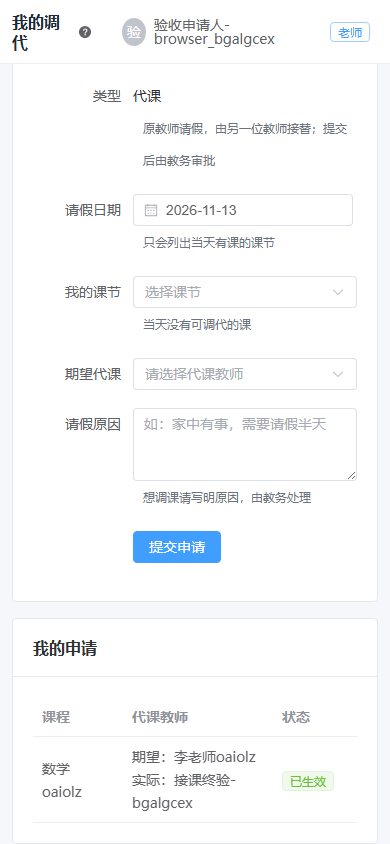
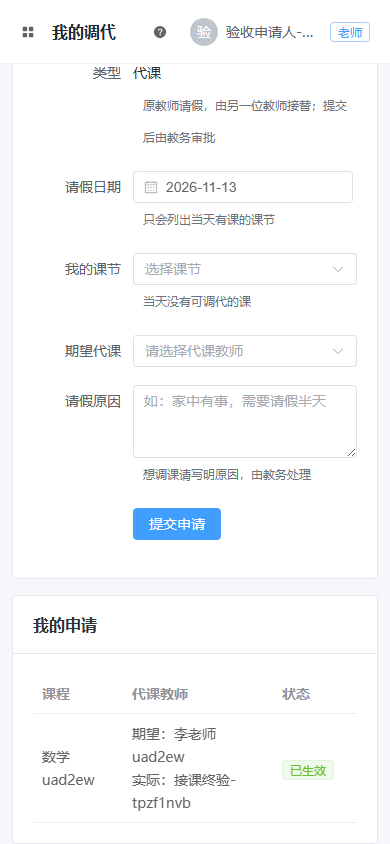
docs(dingtalk): close final review and mobile acceptance before full gate

diff --git a/.scratch/dingtalk-multiuser/whole-standards-mobile-delta-raw.md b/.scratch/dingtalk-multiuser/whole-standards-mobile-delta-raw.md
@@ -1,0 +1,10 @@
+# Standards 手机导航 delta 复核（d7ee6ff…52cbf13，独立只读）
+
+- 源 `E:/排课系统/.worktrees/dingtalk-mobile-nav-review-snapshot`，HEAD `52cbf131382f769a25dc5e7b781ad4f8abcbebce`，tracked clean，未移动 d7/be48；未跑测试/构建/网络，未 stage/commit。delta 16 文件，源码仅 6：`MainLayout.vue`、新 `MainNavigationMenu.vue`、`navigation.ts`、`navigation.spec.ts`、新 `dingtalk-mobile-navigation.spec.ts`、`dingtalk-acceptance.spec.ts`；无后端改动、无迁移。
+- **新 Hard：0**（P1/P2/P3 全 0）。新 spec 复用 `trackBrowserErrors/installFakeWindowDd/apiCall/capture`，无新增内联 collector、无自写登录/下拉，未复制公共交互。
+- **新 Judgement：0**。`MainNavigationMenu` 是两处真实 caller（aside:11-16、drawer:64-70）的共享实现，不属 Middle Man；两处传同一 `visibleGroups`+`activeMenu`，差异只在 `menuTestId` 与 tour 锚点，符合单一来源。
+- **M1 产品修复核对无问题**：`MainLayout.vue:335-341` 在 ≤900px 隐藏 `.aside` 并显示 `.nav-toggle`（base `display:none`，`data-testid=mobile-nav-toggle`，aria-label 打开导航）；drawer `destroy-on-close`、`direction=ltr`、`mobile-layout-menu`、`with-tour-anchors=false`，桌面保留 `layout-menu` 与 `data-tour`（tour 选择器仍唯一）；`@select` 与 `watch(route.fullPath)` 双保险收起属刻意冗余，不致重复渲染，不升级。≤520px 对 `.page-title/.user-name` 做 96px 省略，不引入横向滚动。
+- **resolver**：`navigation.ts:111-118` 仅在「有 `substitution:submit` 且非完整 `WORKBENCH_MANAGER_PERMISSIONS`」时把 `/substitution` 指向既有 `/substitution/requests`，未新增路由、未改 defaultLogin/权限；完整管理组合与管理员仍进工作台（`navigation.spec.ts:71` 钉住）。教师保留 `assignment:view:own`，故「数据管理」入口合法，测试只断言其可见，未反向改权限。
+- **e2e 断言只增不减**：原 acceptance 由 `page.goto` 改为真实「打开导航→调代课」并断言 URL 与抽屉收起，后续断言原样；新 nav spec 断言默认落 `/workbench/timetable`、aside 隐藏、toggle 可见、无设置/规则/AI 入口、往返与 `errors` 空，清理仅关停自建账号与配置。
+- **原轴计数不变**：Hard P1 0 / P2 0 / P3 0（H1 关闭）；Judgement P3 **1**，仅 **J4**（主控不采纳、非延期、**未修复**）。本 delta 未改变任何原项。
+- **边界**：browser 12-spec targeted 仍在跑，未 claim green；我不复跑。修复源对象与 1007 源 Git 56ce 一致、以及“除新增 drawer capture/合法数据入口外红 oracle 未削弱”按主控核对记录，未独立重放。full、真实 PG/钉钉租户/手机仍未验证，**不宣称整规格通过**。

diff --git a/.scratch/dingtalk-multiuser/issues/08-end-to-end-acceptance.md b/.scratch/dingtalk-multiuser/issues/08-end-to-end-acceptance.md
@@ -9,10 +9,12 @@
 2026-11-13：07经最终双轴补核放行（b7cac2e），08开始。主控在dingtalk-t08-chain负责后端Fake身份和真实HTTP整链；Galileo在dingtalk-t08-upgrade负责旧库完整迁移演练；Dalton在dingtalk-t08-browser负责手机→电脑→手机E2E。独立写集基于016859b的同一最终审源，交付前合最新集成。完成证据与最后全量门禁尚待产生，不能据任务拆分认作通过。
 
 - [x] 后端整链（假钉钉）：自动开号 → 老师提交 → 教务管理员改人批准 → 申请人与接课老师各一条钉钉通知、其他人无 → 审计与状态历史可查
-- [ ] Playwright：老师（手机视口）免登进入提交代课；教务管理员（电脑视口）在待审批批准；老师在「我的调代」看到「已生效」
+- [x] Playwright：老师（手机视口）免登进入提交代课；教务管理员（电脑视口）在待审批批准；老师在「我的调代」看到「已生效」
 - [x] 升级演练：用旧库跑全部新迁移，`admin` 为超级管理员，业务数据计数不变
 - [ ] `scripts/verify.sh --full` 绿；交付记录写入本票
 
 2026-11-13：三个切片均已合入be48fc0，独立接收单2c09fdb；验收入口[t08-main-acceptance.md](../t08-main-acceptance.md)。浏览器worker未产出后由主控接管实际施工和运行。升级为H2演练，不证明真实PG；手机为浏览器仿真，不证明真实租户送达。当前整特性双轴复查与单一fixer收口中，最后完整门禁未跑，保留in-progress，不push、不部署。
 
 同日后续：主控发现原整链免登后用直接URL跳到申请页，掩盖了手机默认课表没有导航入口的问题，已真实红例复现并重开本项，见[whole-mobile-navigation-qc.md](../whole-mobile-navigation-qc.md)。唯一fixer补导航并把原整链改成点击进入；转绿、增量复核及最后完整门禁前不勾选。
+
+2026-11-13 最终专项：手机真实菜单入口已修复并实跑32项通过，见主控验收最新节；原重开项关闭。整合源7413a01，08仅剩完整verify门禁，状态仍in-progress。

diff --git a/.scratch/dingtalk-multiuser/whole-spec-mobile-delta-raw.md b/.scratch/dingtalk-multiuser/whole-spec-mobile-delta-raw.md
@@ -1,0 +1,9 @@
+# 手机导航 delta：Spec 轴（d7ee6ff…52cbf13）
+
+审源 `52cbf131382f769a25dc5e7b781ad4f8abcbebce`（只读 WT，rev-parse 全 SHA 已核、干净）；diff `d7ee6ff...52cbf13` 6 个源文件（5 UI + 新 nav spec，另 1 acceptance spec 改真实点击）。未跑测试/构建/网络，未改源。
+
+- 结论：新增规格缺失 0、越界 0；行为变更 1（P3）；独立计数 P0 0 / P1 0 / P2 0 / P3 1，最坏项 P3-1。
+- M1 覆盖逐项对上：默认仍落本人课表（`dingtalk-mobile-navigation.spec.ts:46`，`useLoginLanding` 未改）；≤900 aside 隐藏且 toggle 显示（`MainLayout.vue:336-340`）；drawer 复用同一 `visibleGroups/activeMenu`（`MainLayout.vue:55-66`）；桌面保留 `layout-menu`+`data-tour`、手机 `mobile-layout-menu` 不带 tour（`MainNavigationMenu.vue:15、28-31`）；`destroy-on-close` + select 与 `route.fullPath` watch 双关闭（`MainLayout.vue:58、200-205`）。
+- 入口解析：`resolveMenuPath` 仅 `can(substitution:submit)` 且非完整 `WORKBENCH_MANAGER_PERMISSIONS` 时去 `/substitution/requests`（`navigation.ts:111-118`）；完整组合仍 `/substitution`，单测已钉（`navigation.spec.ts:70`）。路由表、权限点、后端与布局层手机专用权限均未新增；老师「数据管理」仍由合法 `assignment:view:own` 可见（`navigation.ts:65-74`、spec 62 行）。
+- P3-1：注释称「遗漏权限的老入口保持原样」，但缺少 `timetable:view` 的自定义 submit+approve 角色也会改落 requests；其「待审批」页签仍在（`SubstitutionsView.vue:49、89`），不越权，属行为微变，交付说明需注明，预置三角色不受影响。
+- 边界：真实 red→green 与 12 spec 浏览器回执尚未完成，本文件不宣布 browser 转绿或 full 通过；原轴 0 不改写、不抹 M1 由主控 QC 发现的来源。

diff --git a/.scratch/dingtalk-multiuser/whole-standards-browser-supplement.md b/.scratch/dingtalk-multiuser/whole-standards-browser-supplement.md
@@ -1,0 +1,10 @@
+# Standards 浏览器运行补核（browser-run1，只读收尾）
+
+- 只读核对 `integration/.scratch/dingtalk-multiuser/logs/whole-fixes-browser-run1`：`playwright.exit.txt`=`EXIT=0`；`playwright.log` 末行 `32 passed (4.3m)`，含 `dingtalk-acceptance.spec.ts:21`（ok 4）与 `dingtalk-mobile-navigation.spec.ts:12`（ok 9），tour 两条亦 ok（31/32）。
+- 源冻结：`source-stability.txt`=`SOURCE_IDENTICAL=1`，`source-hashes-before/after` 内容逐行相同且两者 SHA256 同为 `3DC566B6…6806D3`；`source-refs.txt` HEAD 前后均 `52cbf131382f769a25dc5e7b781ad4f8abcbebce`。
+- 合并后源证明：`post-integration-source-proof.txt` 为 `COMMIT=7413a01…`、`CHECKED_SOURCE_FILES=1008`、`MISMATCHES=0`、`EXTRA_COMMITTED_FILES=0`、`POST_INTEGRATION_SOURCE_IDENTICAL=1`；另核 `261be4a^{tree}`=`52cbf13^{tree}`=`2fceb80a…a863`，`52cbf13…7413a01` 仅增 `.scratch/.../whole-fixes-merge-receipt.md`，属收据文档。
+- `SHA256SUMS.txt` 覆盖 9 项且已存在；证据目录 `evidence/whole-fixes-browser-run1` 实有 25 个 PNG（含 drawer/phone submit/effective）。
+- 结论：浏览器运行与源一致性证据自洽，支持「通过」的**定向浏览器切片**，且不影响本轴结论。
+- 计数保持：**Hard P1 0 / P2 0 / P3 0**（H1 已关）；Judgement **P3=1，仅 J4**（主控不采纳、非延期、未修复），不阻止本地主控 full。
+- 自纠：mobile delta 报告与聊天中的 `submission:submit` 系笔误，实际源码为 **`substitution:submit`**（`navigation.ts:113`、`constants/permissions.ts`）；原 raw 不重写，计数不变。
+- 边界：未复跑测试、未重读全仓、未改源；full 门禁仍未跑，真实 PostgreSQL/钉钉租户/手机未验证，**不宣称全量通过**。

diff --git a/.scratch/HANDOFF.md b/.scratch/HANDOFF.md
@@ -1,3 +1,4 @@
+> 2026-11-13 最新收口：原八票最终源已整合7413a01，手机真实入口M1经主控12 spec/32项回归通过并关闭；双轴最终源复查及裁定见[dingtalk-multiuser/whole-review.md](dingtalk-multiuser/whole-review.md)，专项事实见[t08-main-acceptance](dingtalk-multiuser/t08-main-acceptance.md)。当前仅剩冻结源串行完整verify，完成前不标done。未push/部署，真实PG/租户/手机未验；09拒绝清理原样保留。下方为各阶段快照。
 > 2026-11-13 最新补查：08手机真实入口重开。默认本人课表在窄屏无侧栏/其他导航，原E2E直接goto掩盖缺口；主控真实红例1失败且源冻结，详见dingtalk-multiuser/whole-mobile-navigation-qc.md（feature目录内为同名文件）。唯一fixer Turing第一批H1重构及Java定向已交付，第二阶段补手机导航并改原整链为真实点击。原三阶段截图不是全移动端导航验收。最终full未跑，08不放行，未push/部署，09拒绝清理保留。
 
 > 2026-11-13 最新：原八票源码均已整合，含08的固定审源be48fc0、接收单2c09fdb；主控验收见t08-main-acceptance.md（HANDOFF中链接为dingtalk-multiuser/t08-main-acceptance.md）。01–07为implemented，08三项专项验收已具备，仍待整特性两轴终审、统一fixer整改与最终一次full verify，不能标done。Standards预审H1交Turing；Spec预审四项观察已由原轴自行核对撤回，原稿/更正均保留。未push/部署，真实PG/租户/手机未验，09删除拒绝继续保留。

diff --git a/.scratch/dingtalk-multiuser/whole-mobile-navigation-qc.md b/.scratch/dingtalk-multiuser/whole-mobile-navigation-qc.md
@@ -26,3 +26,7 @@
 主控也核到旧resolveMenuPath仅处理workbench/data，并没有Teacher的/substitution自助落点。为避免在Layout另造手机专用权限/路由映射，方案改为在现有集中resolver中统一：有submit但缺完整管理组合者→已有/substitution/requests，完整管理组合仍→/substitution；默认免登仍本人课表，route表/权限点不改。桌面/手机共用相同visibleGroups和activeMenu，既有桌面Teacher菜单也直接到合法自助页。新增中央导航回归与原整链真实点击是必要接缝，不复制路由权限算法。
 
 R1受检全部1007个源文件Git对象已独立对提交56ce4f76400a8b157c5654c9bd984556e79d60cf逐一比对，0差异/0额外文件，RED_SOURCE_EQUALS_COMMIT=1，回执见logs/whole-mobile-navigation-red1/committed-source-proof.txt。随后给新spec增加drawer截图及上述合法入口期望校正，保留原导航红断言，不回写原始日志。
+
+## 2026-11-13 手机入口关闭
+
+真实RED 1失败→最终12 spec/32项全部通过，EXIT=0、SOURCE_IDENTICAL=1；整合后1008个源对象与7413a01相同。原整链改真实菜单点击，未删除入口断言或改变权限迎合测试。证据logs/whole-fixes-browser-run1与t08-main-acceptance。M1已关闭，全量尚待。手机菜单与桌面共享同一导航解析；自定义submit+approve但缺完整工作台权限的账号改为直接落requests，待审批页签仍在，交付说明已记录。

diff --git a/.scratch/dingtalk-multiuser/whole-standards-first-delta-corrigendum.md b/.scratch/dingtalk-multiuser/whole-standards-first-delta-corrigendum.md
@@ -1,0 +1,10 @@
+# Standards 首次 delta 复核更正（J5 撤回，d7ee6ff）
+
+- 原报告 `whole-standards-first-delta-raw.md` 原文保留不改；本文件为自纠与计数更正。
+- **J5 撤回（误报）**：同一只读快照 `E:/排课系统/.worktrees/dingtalk-standards-fixes-snapshot`（HEAD `d7ee6ffca6456296f5daf654809d6c8516b6f3ea`）逐 test 核对：
+  - `dingtalk-sync.spec.ts` 两个 UI 用例（`test(...page)` :19、:127）分别在 :108、:267 体内 `expect(browserErrors).toEqual([])`；
+  - `account-audit.spec.ts` 两个 UI 用例（:36、:169）分别在 :152、:216 体内断空。
+  两文件均无 API-only 用例、无「收集后无人消费」的用例；「无 afterEach」只是断言写在体内（位于 `finally` 前），不是无守卫。体内断言位于其余步骤之后，任何前置失败本身即判红，不存在静默通过。故无需 fixer 补重复 afterEach。
+- **更正后计数**：Hard **P1 0 / P2 0 / P3 0**（H1 仍判关闭，不受本更正影响）；Judgement **P1 0 / P2 0 / P3 1**——仅 **J4（P3，主控不采纳、非延期、未修复）**。J1/J2/J3 关闭结论不变。
+- 最坏项：J4（P3 判断建议），无未决 Hard；M1 真导航红例在另一阶段施工，不在本快照。
+- 边界不变：未跑测试/构建/网络，未 stage/commit；R6 为交付方报告、R5 为环境误设红、writeset 前后哈希不构成测试前后源冻结；不宣称整规格通过。

diff --git a/.scratch/dingtalk-multiuser/whole-spec-browser-supplement.md b/.scratch/dingtalk-multiuser/whole-spec-browser-supplement.md
@@ -1,0 +1,8 @@
+# 浏览器实据补核（Spec 轴，只读）
+
+核于集成 `.scratch/dingtalk-multiuser/logs/whole-fixes-browser-run1/`：`playwright.exit.txt`=EXIT=0；`playwright.log` 尾行「32 passed (4.3m)」；`source-stability.txt`=SOURCE_IDENTICAL=1；`source-refs.txt` HEAD_BEFORE=HEAD_AFTER=`52cbf131…`（运行期间源未动）。
+
+- `post-integration-source-proof.txt`：COMMIT=`7413a01469cf6dbd3460d6c16e3709ea0cdd0666`、CHECKED_SOURCE_FILES=1008、MISMATCHES=0、EXTRA_COMMITTED_FILES=0、POST_INTEGRATION_SOURCE_IDENTICAL=1；集成 HEAD 即 7413a01，其父 261be4a 合入候选 52cbf13（receipt-only 提交，树=52 树）。
+- 运行与源相符：M1 行为边界（默认本人课表、≤900 仅 drawer 入口、同 `visibleGroups/activeMenu`、桌面 `layout-menu`+tour 锚点、手机独立 testid 无 tour、点菜单/route 关闭、无越权菜单）在 52cbf13 源中即为本轮实跑对象，非事后补源。
+- **保留 P3-1（采纳主控交付说明口径）**：`substitution:submit`+`substitution:approve` 但缺完整工作台权限的自定义角色，菜单落 `/substitution/requests`；「待审批」页签仍在（`SubstitutionsView.vue:49,89`），不越权，预置三角色不受影响。不改源。
+- 边界：全量 `verify --full` 未跑；H2/Fake/离线手机视口不证明真实 PostgreSQL、钉钉租户或手机送达。本补核不构成这些项通过。

diff --git a/.scratch/dingtalk-multiuser/execution.md b/.scratch/dingtalk-multiuser/execution.md
@@ -56,3 +56,5 @@
 03已于2026-11-11通过施工、两轴整改增量复核与真实浏览器验收并由统筹放行，暂implemented；入口t03-delivery.md/t03-review.md。下一票05，仍待整票施工与双轴放行后再06。最终八票全量verify尚未运行。UI工作树任务runtime/截图副本联合清理被自动审批拒绝，保留现场及工作树，09记录为准。
 
 05已从e091d0f启动：codex/dingtalk-t05-backend与codex/dingtalk-t05-ui独立写集；主模型负责锁/事务/权限取舍和测试调度。当前后端定向TDD优先，前端先准备红测试，避免内存不足并发重测。契约与旧调用方保全见t05-wire-contract、t05-transaction-plan、t05-caller-regression-map。06/07研究准备不等于施工。
+
+2026-11-13 最终源已整合至7413a01，实际受影响浏览器32项通过，手机默认课表到申请的真实入口M1关闭；专项、兼容性说明和最终评审入口见t08-main-acceptance.md、whole-review.md。最后frontier为冻结源串行完整verify，完成前原八票均不标done。未push/部署，09拒绝删除保留。
